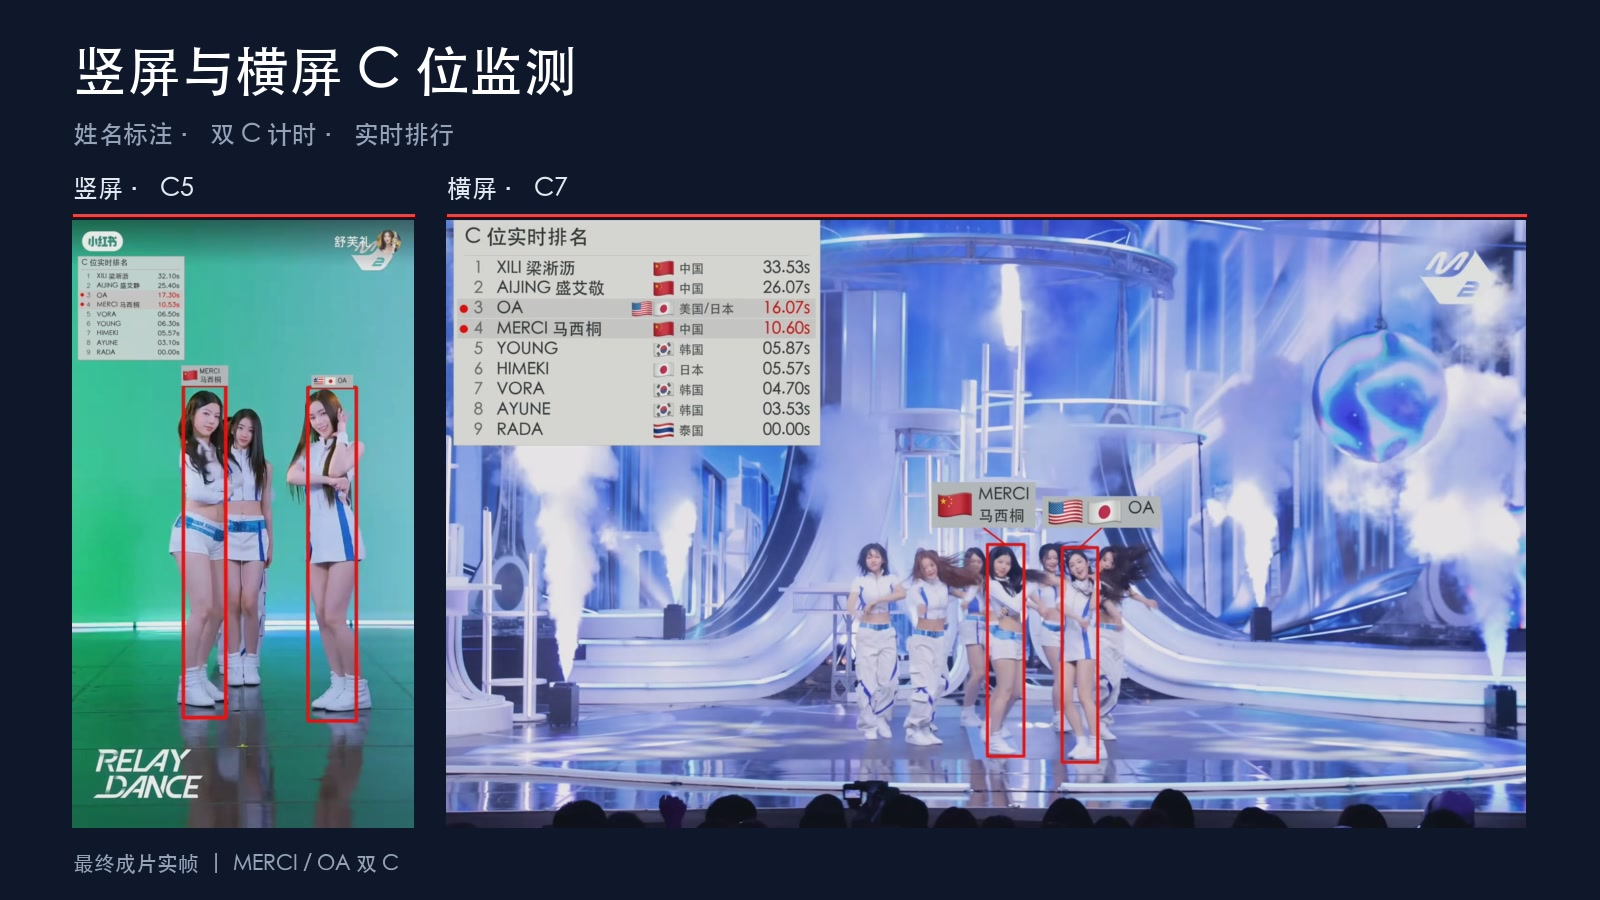
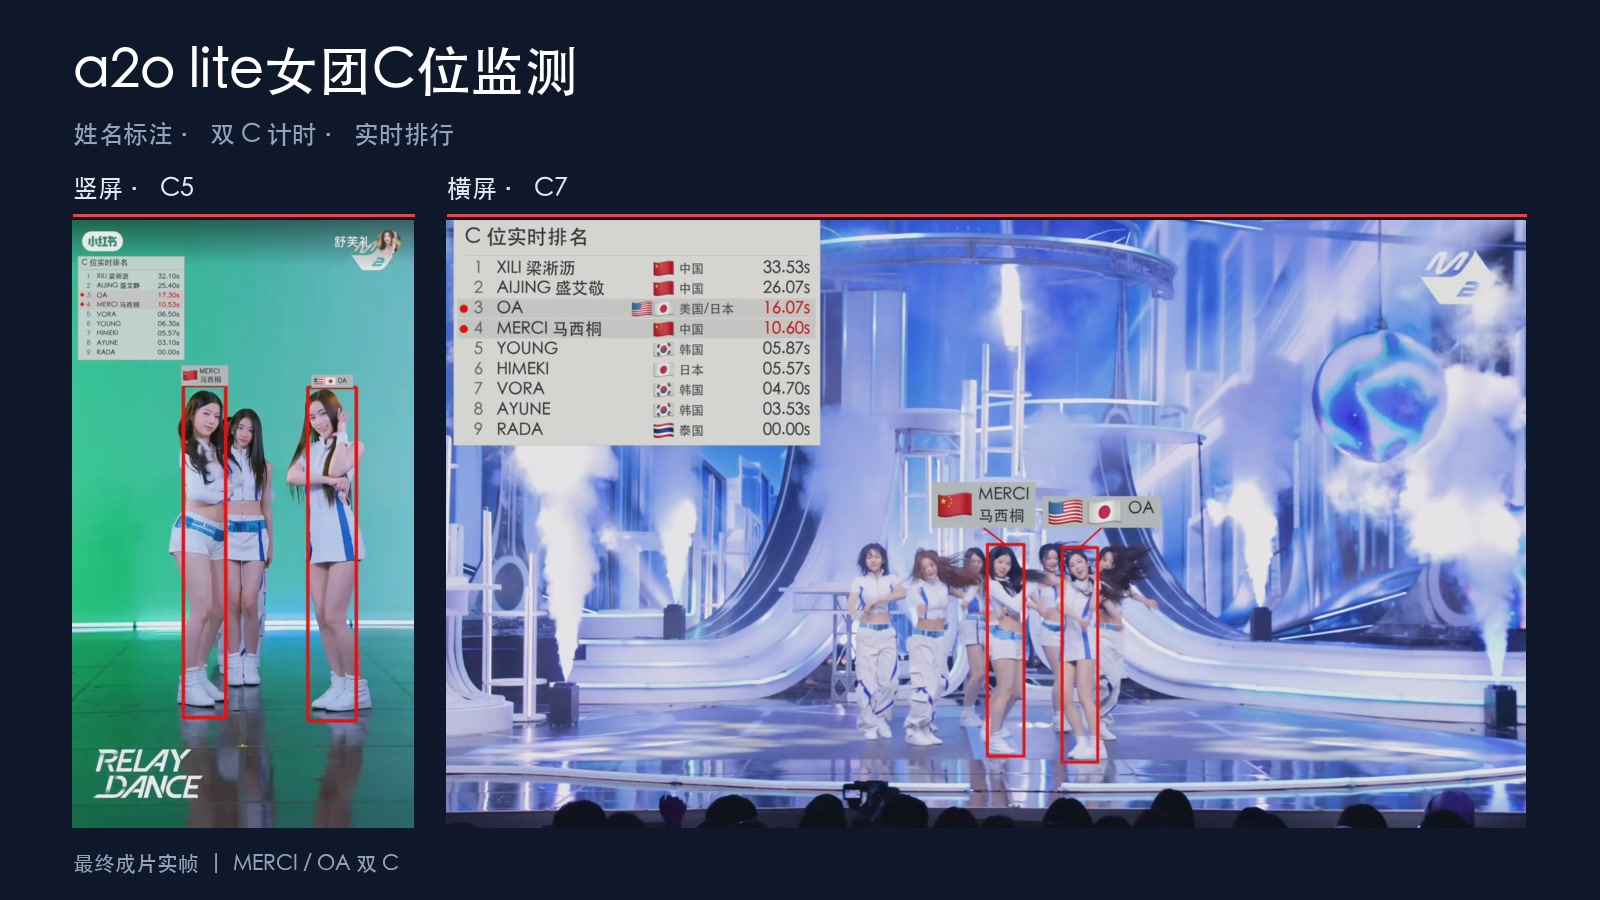
Set project title to a2o lite女团C位监测

Changed region(s): [[0.0312, 0.0311, 0.375, 0.1244]]

diff --git a/docs/技术方案.md b/docs/技术方案.md
@@ -1,4 +1,4 @@
-# 竖屏与横屏 C 位监测技术方案
+# a2o lite女团C位监测技术方案
 
 本方案用于固定机位舞蹈视频的 C 位标注、成员计时和可核对的视频输出。系统采用人体姿态检测生成候选，通过人工复核确认主表演角色和姓名，再以最终可见红框为唯一计时依据。竖屏和横屏共用数据校验、计时、排行榜及导出模块，通过配置区分时间线和坐标。
 

diff --git a/README.md b/README.md
@@ -1,6 +1,6 @@
-# 竖屏与横屏 C 位监测
+# a2o lite女团C位监测
 
-![竖屏与横屏最终成片中的 MERCI 与 OA 双 C 监测画面](assets/covers/cover.jpg)
+![a2o lite女团C位监测 封面](assets/covers/cover.jpg)
 
 封面截取两版最终成片 01:17 的双 C 画面：[竖屏截图](assets/covers/portrait.jpg) · [横屏截图](assets/covers/landscape.jpg)。
 
